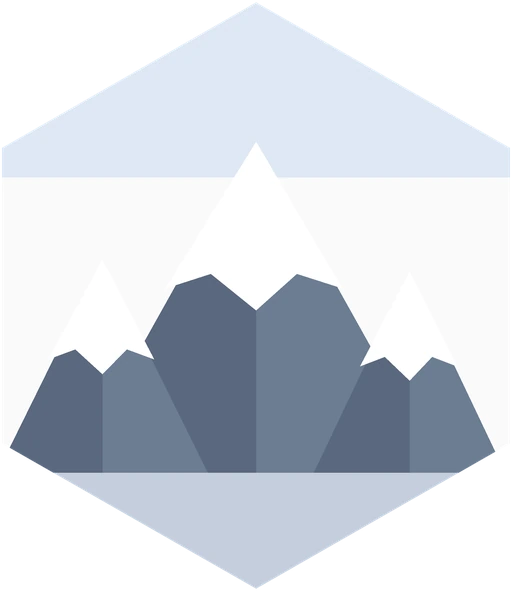
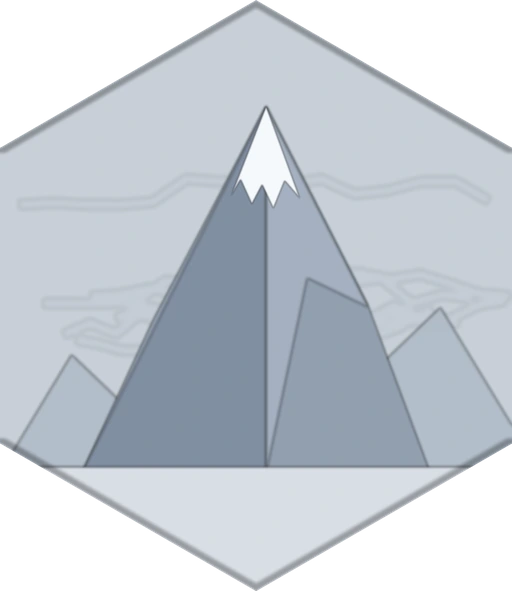
Карта: 10 колонок гексов, без заголовка легенды, арт в стиле референса
1) Карта расширена влево: 6 -> 10 гексов в ряду (7 рядов, 70 гексов).
   Ширина страницы 1200 -> 1580px, размер гекса считается от вьюпорта
   (clamp), на узких экранах карта прокручивается, а не сжимается в кашу.

2) Удалён заголовок «ЛЕГЕНДА».

3) Арт переделан под присланный референс: плоская заливка, мягкие
   горизонтальные мазки-текстура, один простой силуэтный мотив.
   - болото: тёмные лужи, кочки, камыш, сухое дерево
   - горы: голубоватый пик с небольшим снегом + дальние хребты
   - свалка: покрышка, ржавая бочка, насыпь, балки
   - руины: силуэты домов с зубцами и окнами
   - база: бетонный бункер, антенна, мешки с песком
   - пустыня: крупные дюны с гребнями
   - токсичное озеро: зелёная лужа, пузыри, бочка
   - радиация: лиловый фон, свечение из трещин, знак радиации

diff --git a/index.html b/index.html
@@ -94,7 +94,7 @@
 
         /* Layout */
         main {
-            max-width: 1200px;
+            max-width: 1580px;
             margin: 0 auto;
             padding: 40px 20px;
         }
@@ -118,7 +118,8 @@
             display: flex;
             gap: 28px;
             align-items: flex-start;
-            justify-content: center;
+            /* карта уходит влево, легенда — вправо: пустое место по краям не копится */
+            justify-content: space-between;
         }
 
         @media (max-width: 1040px) {
@@ -130,9 +131,11 @@
 
         .hex-field {
             /* Pointy-top сетка: гекс w:h = 1:1.1547 (как 512x591),
-               вертикальный шаг = h*0.75, сдвиг нечётного ряда = w/2 */
-            --hex-w: 106px;
-            --hex-h: 122px;
+               вертикальный шаг = h*0.75, сдвиг нечётного ряда = w/2.
+               Ширина гекса считается от вьюпорта, чтобы 10 колонок
+               влезали рядом с легендой без горизонтальной прокрутки. */
+            --hex-w: clamp(62px, calc((100vw - 470px) / 10.5), 106px);
+            --hex-h: calc(var(--hex-w) * 1.1547);
             --hex-overlap: calc(var(--hex-h) * -0.25);
             --hex-offset: calc(var(--hex-w) / 2);
             display: flex;
@@ -142,11 +145,18 @@
             width: fit-content;
         }
 
-        @media (max-width: 720px) {
+        @media (max-width: 1040px) {
             .hex-field {
-                --hex-w: 82px;
-                --hex-h: 95px;
+                --hex-w: clamp(58px, calc((100vw - 60px) / 10.5), 88px);
             }
+        }
+
+        /* На узких экранах карта не сжимается в нечитаемое, а прокручивается */
+        .hex-scroll {
+            max-width: 100%;
+            overflow-x: auto;
+            overflow-y: hidden;
+            padding-bottom: 6px;
         }
 
         /* Иллюстрированные гексы: pointy-top, встык по вертикали */
@@ -913,15 +923,16 @@
         <section id="map" class="section active">
             <h2 style="margin-bottom: 20px; color: var(--accent-red);">СЕКТОР 7-АЛЬФА</h2>
             <div class="map-container">
-                <div class="hex-field" id="hexGrid">
-                    <!-- Generated by JS -->
+                <div class="hex-scroll">
+                    <div class="hex-field" id="hexGrid">
+                        <!-- Generated by JS -->
+                    </div>
                 </div>
                 <div class="legend">
                     <div class="map-info" id="mapInfo">
                         <h4>ВЫБЕРИТЕ ГЕКС</h4>
                         <p>Кликните по гексу карты, чтобы получить сведения о местности.</p>
                     </div>
-                    <h3 style="margin-bottom: 15px; color: var(--text-main);">ЛЕГЕНДА</h3>
                     <div class="legend-item"><div class="legend-hex"><img src="Hexes/swamp.webp" alt="" draggable="false" loading="lazy" onerror="this.outerHTML='<span class=&quot;legend-hex-fallback&quot;></span>'"></div><div>Болото (Топь, радиация)</div></div>
                     <div class="legend-item"><div class="legend-hex"><img src="Hexes/mountain.webp" alt="" draggable="false" loading="lazy" onerror="this.outerHTML='<span class=&quot;legend-hex-fallback&quot;></span>'"></div><div>Горы (Непроходимо)</div></div>
                     <div class="legend-item"><div class="legend-hex"><img src="Hexes/junkyard.webp" alt="" draggable="false" loading="lazy" onerror="this.outerHTML='<span class=&quot;legend-hex-fallback&quot;></span>'"></div><div>Свалка (Лут, опасность)</div></div>
@@ -1109,7 +1120,7 @@
                 onerror="this.outerHTML='<span class=\\'hex-fallback\\'>${fb}</span>'">`;
         }
 
-        const MAP_ROWS = 7, MAP_COLS = 6;
+        const MAP_ROWS = 7, MAP_COLS = 10;
         for (let r = 0; r < MAP_ROWS; r++) {
             const row = document.createElement('div');
             row.className = 'hex-row' + (r % 2 ? ' offset' : '');
